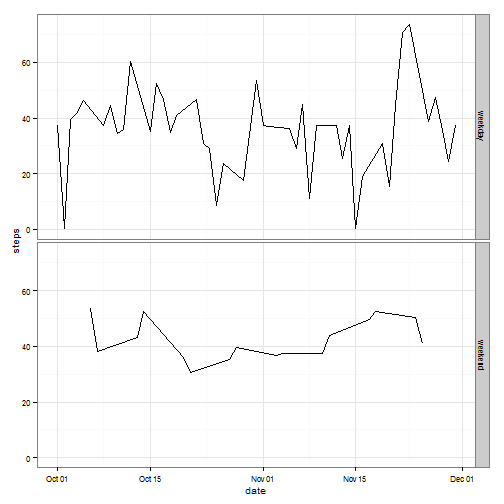
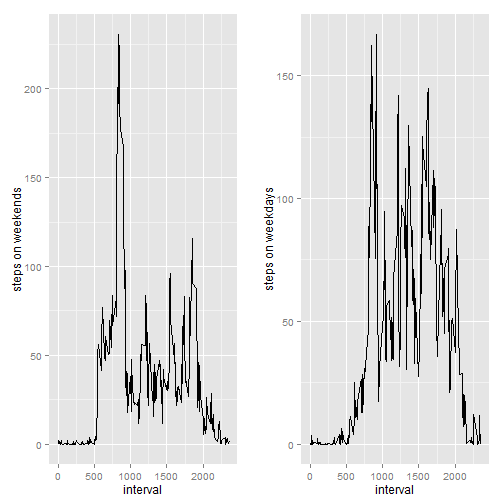
interval computation 	modified:   figure/factor_plot-1.png 	modified:   figure/mean_steps-1.png 	modified:   PA1_template.Rmd 	modified:   PA1_template.html 	modified:   PA1_template.md

diff --git a/PA1_template.html b/PA1_template.html
@@ -207,6 +207,7 @@ hr {
 
 <pre><code class="r">setAs(&quot;character&quot;,&quot;myDate&quot;, function(from) as.Date(from, format=&quot;%Y-%m-%d&quot;) )
 activity=read.csv(unz(&quot;activity.zip&quot;, &quot;activity.csv&quot;), header=TRUE, colClasses=c(&quot;numeric&quot;,&quot;myDate&quot;,&quot;numeric&quot;))
+activityWithoutNA=na.omit(activity)
 </code></pre>
 
 <h2>What is mean total number of steps taken per day?</h2>
@@ -251,18 +252,18 @@ and the median of the total number of steps taken per day <strong>10765.00</stro
 
 <h3>Time series plot (i.e. type = &ldquo;l&rdquo;) of the 5-minute interval (x-axis) and the average number of steps taken, averaged across all days (y-axis)</h3>
 
-<pre><code class="r">meanSteps = aggregate(activity$steps, list(date=activity$date), FUN=mean)
-ggplot( data = meanSteps, aes( date, x )) + geom_line() +ylab(&quot;steps&quot;)
+<pre><code class="r">meanSteps = aggregate(activityWithoutNA$steps, list(interval=activityWithoutNA$interval), FUN=mean)
+ggplot( data = meanSteps, aes( interval, x )) + geom_line() +ylab(&quot;steps&quot;)
 </code></pre>
 
[2 lines of base64/hex data omitted]
 
 <pre><code class="r">maxMeans=meanSteps[which.max(meanSteps[,2]),1]
 </code></pre>
 
-<h3>Date having the maximum number of steps</h3>
+<h3>the 5-minutes interval having the maximum number of steps</h3>
 
-<p>The date <strong>2012-11-23</strong> has the 5-minute interval, on average across all the days containing the maximum number of steps</p>
+<p><strong>835</strong> is the 5-minute interval containing the maximum number of steps</p>
 
 <h2>Imputing missing values</h2>
 
@@ -283,7 +284,7 @@ ggplot( data = meanSteps, aes( date, x )) + geom_line() +ylab(&quot;steps&quot;)
 
 <pre><code class="r">meanAll = mean(meanSteps$x,na.rm=TRUE)
 meanSteps$x = mapply(function(x) ifelse(is.na(x), meanAll, x),meanSteps$x)
-activity1=merge(activity,meanSteps,by=&quot;date&quot;)
+activity1=merge(activity,meanSteps,by=&quot;interval&quot;)
 activity1=dplyr::mutate(activity1,steps=ifelse(is.na(steps), x, steps))
 activity1=activity1[,!(names(activity1) %in% c(&quot;x&quot;))]
 </code></pre>
@@ -323,17 +324,24 @@ sumMedian1=median(sumSteps1$x)
 
 <pre><code class="r">library(&quot;dplyr&quot;)
 activity1=dplyr::mutate(activity1,daytype=ifelse(weekdays(date)==&quot;Sunday&quot;|weekdays(date)==&quot;Saturday&quot;, &quot;weekend&quot;,&quot;weekday&quot;))
-meanSteps2 = aggregate(activity1$steps, list(date=activity1$date), FUN=mean)
-meanSteps2=dplyr::mutate(meanSteps2,daytype=ifelse(weekdays(date)==&quot;Sunday&quot;|weekdays(date)==&quot;Saturday&quot;, &quot;weekend&quot;,&quot;weekday&quot;))
+meanSteps2WE = aggregate(steps~interval,data=subset(activity1,activity1$daytype==&quot;weekend&quot;), FUN=mean)
+meanSteps2WD = aggregate(steps~interval,data=subset(activity1,activity1$daytype==&quot;weekday&quot;), FUN=mean)
 </code></pre>
 
 <h3>Panel plot containing a time series plot (i.e. type = &ldquo;l&rdquo;) of the 5-minute interval (x-axis) and the average number of steps taken, averaged across all weekday days or weekend days (y-axis)</h3>
 
-<pre><code class="r">g = ggplot(meanSteps2, aes(date,x,group=daytype))+facet_grid(daytype ~ .)+ylab(&quot;steps&quot;)
-g + geom_line()  + theme_bw(base_size = 10) 
+<pre><code class="r">library(&quot;gridExtra&quot;)
 </code></pre>
 
[1 lines of base64/hex data omitted]
+<pre><code>## Loading required package: grid
+</code></pre>
+
+<pre><code class="r">gwe = ggplot( data = meanSteps2WE, aes( interval, steps )) + geom_line() +ylab(&quot;steps on weekdays&quot;)
+gwd = ggplot( data = meanSteps2WD, aes( interval, steps )) + geom_line() +ylab(&quot;steps on weekends&quot;)
+grid.arrange(gwd, gwe, ncol=2)
+</code></pre>
+
[1 lines of base64/hex data omitted]
 
 </body>
 

diff --git a/PA1_template.md b/PA1_template.md
@@ -13,6 +13,7 @@ output: html_document
 ```r
 setAs("character","myDate", function(from) as.Date(from, format="%Y-%m-%d") )
 activity=read.csv(unz("activity.zip", "activity.csv"), header=TRUE, colClasses=c("numeric","myDate","numeric"))
+activityWithoutNA=na.omit(activity)
 ```
 
 ## What is mean total number of steps taken per day?
@@ -47,7 +48,7 @@ g = ggplot(activity, aes(x=date,y=steps))
 g + geom_histogram(stat="identity")+ylab("steps")
 ```
 
-![plot of chunk histo_total_steps_day_NA](Figure/histo_total_steps_day_NA-1.png) 
+![plot of chunk histo_total_steps_day_NA](figure/histo_total_steps_day_NA-1.png) 
 
 
 
@@ -67,20 +68,20 @@ and the median of the total number of steps taken per day **10765.00**
 
 
 ```r
-meanSteps = aggregate(activity$steps, list(date=activity$date), FUN=mean)
-ggplot( data = meanSteps, aes( date, x )) + geom_line() +ylab("steps")
+meanSteps = aggregate(activityWithoutNA$steps, list(interval=activityWithoutNA$interval), FUN=mean)
+ggplot( data = meanSteps, aes( interval, x )) + geom_line() +ylab("steps")
 ```
 
-![plot of chunk mean_steps](Figure/mean_steps-1.png) 
+![plot of chunk mean_steps](figure/mean_steps-1.png) 
     
 
 ```r
 maxMeans=meanSteps[which.max(meanSteps[,2]),1]
 ```
 
-### Date having the maximum number of steps
+### the 5-minutes interval having the maximum number of steps
 
-The date **2012-11-23** has the 5-minute interval, on average across all the days containing the maximum number of steps
+**835** is the 5-minute interval containing the maximum number of steps
 
 
 ## Imputing missing values
@@ -105,7 +106,7 @@ Creation a new dataset that is equal to the original dataset but with the missin
 ```r
 meanAll = mean(meanSteps$x,na.rm=TRUE)
 meanSteps$x = mapply(function(x) ifelse(is.na(x), meanAll, x),meanSteps$x)
-activity1=merge(activity,meanSteps,by="date")
+activity1=merge(activity,meanSteps,by="interval")
 activity1=dplyr::mutate(activity1,steps=ifelse(is.na(steps), x, steps))
 activity1=activity1[,!(names(activity1) %in% c("x"))]
 ```
@@ -118,7 +119,7 @@ meanSteps1 = aggregate(activity1$steps, list(date=activity1$date), FUN=mean)
 ggplot(activity1, aes(x=date,y=steps))+ geom_histogram(stat="identity")+ylab("steps")
 ```
 
-![plot of chunk histo_total_steps_day ](Figure/histo_total_steps_day -1.png) 
+![plot of chunk histo_total_steps_day ](figure/histo_total_steps_day -1.png) 
     
 ### Calculation and report of the mean and median total number of steps taken per day. 
     
@@ -154,16 +155,25 @@ As expected there is no difference with the mean as null values where replaced w
 ```r
 library("dplyr")
 activity1=dplyr::mutate(activity1,daytype=ifelse(weekdays(date)=="Sunday"|weekdays(date)=="Saturday", "weekend","weekday"))
-meanSteps2 = aggregate(activity1$steps, list(date=activity1$date), FUN=mean)
-meanSteps2=dplyr::mutate(meanSteps2,daytype=ifelse(weekdays(date)=="Sunday"|weekdays(date)=="Saturday", "weekend","weekday"))
+meanSteps2WE = aggregate(steps~interval,data=subset(activity1,activity1$daytype=="weekend"), FUN=mean)
+meanSteps2WD = aggregate(steps~interval,data=subset(activity1,activity1$daytype=="weekday"), FUN=mean)
 ```
 
 ### Panel plot containing a time series plot (i.e. type = "l") of the 5-minute interval (x-axis) and the average number of steps taken, averaged across all weekday days or weekend days (y-axis)
 
 
 ```r
-g = ggplot(meanSteps2, aes(date,x,group=daytype))+facet_grid(daytype ~ .)+ylab("steps")
-g + geom_line()  + theme_bw(base_size = 10) 
+library("gridExtra")
 ```
 
-![plot of chunk factor_plot](Figure/factor_plot-1.png) 
+```
+## Loading required package: grid
+```
+
+```r
+gwe = ggplot( data = meanSteps2WE, aes( interval, steps )) + geom_line() +ylab("steps on weekdays")
+gwd = ggplot( data = meanSteps2WD, aes( interval, steps )) + geom_line() +ylab("steps on weekends")
+grid.arrange(gwd, gwe, ncol=2)
+```
+
+![plot of chunk factor_plot](figure/factor_plot-1.png) 
